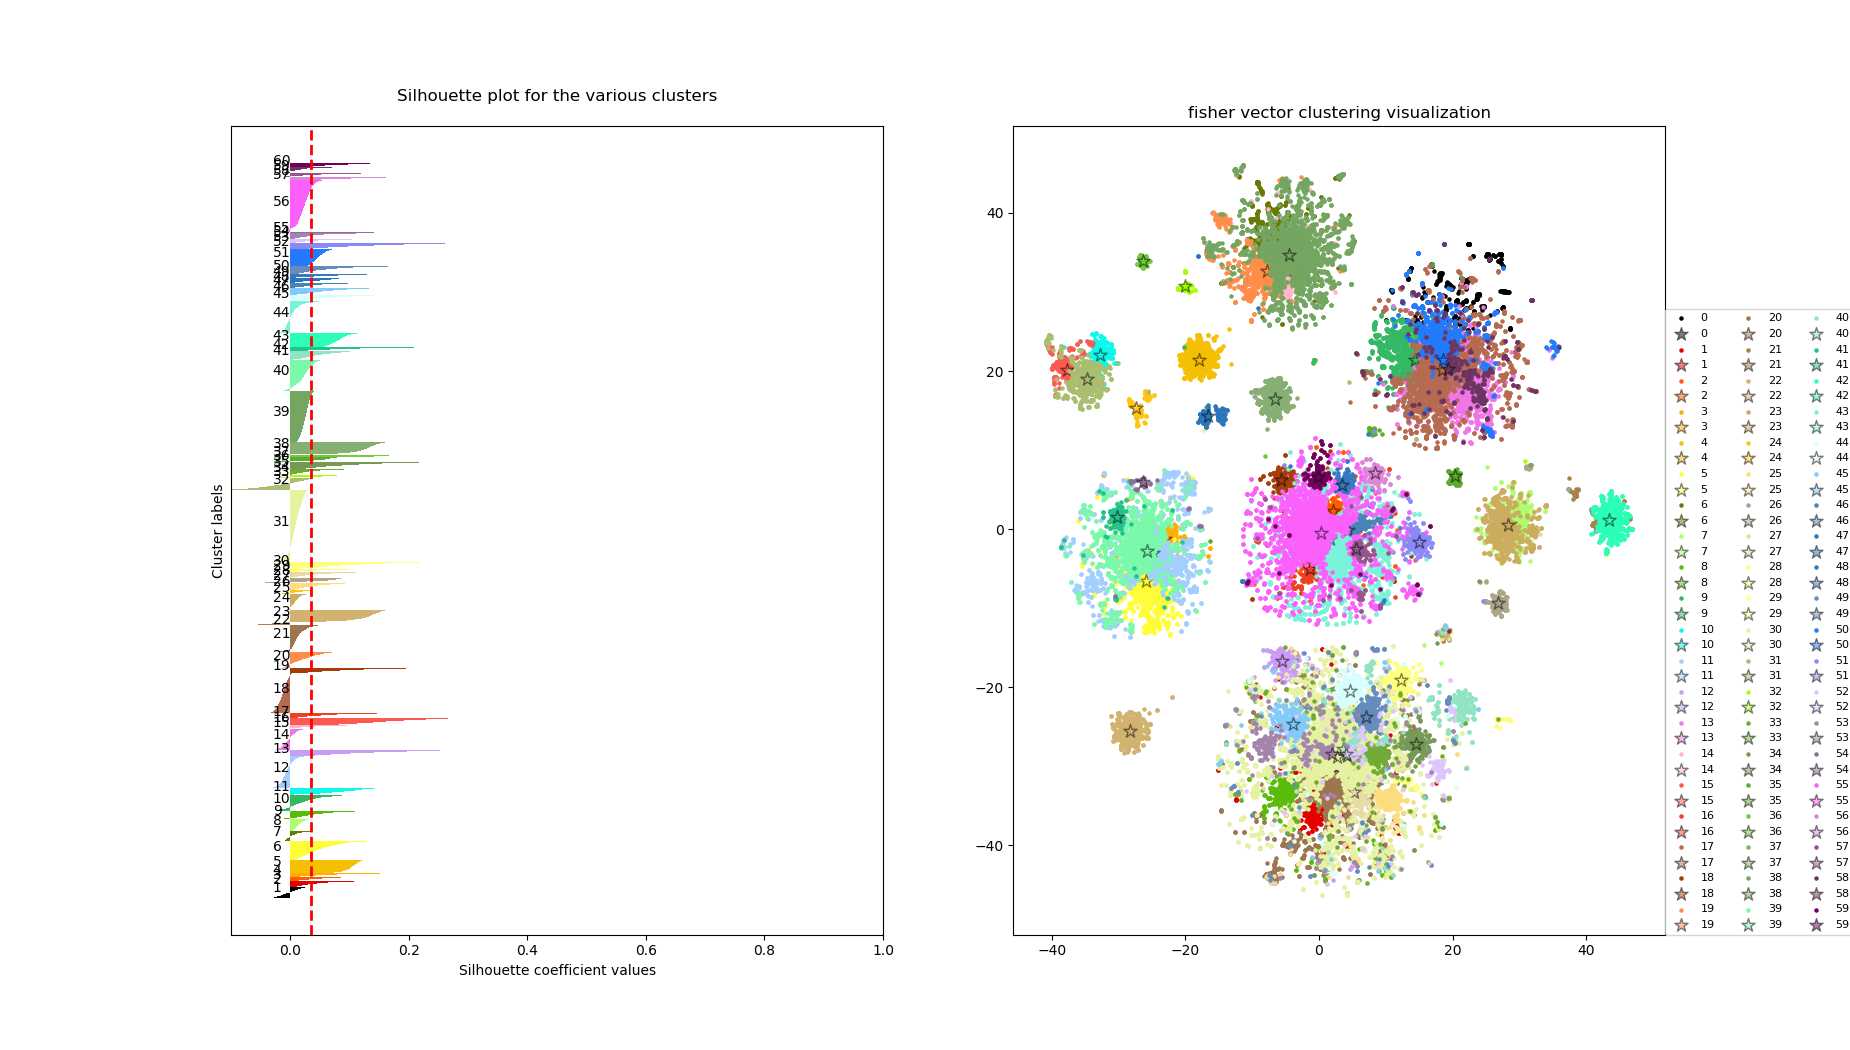
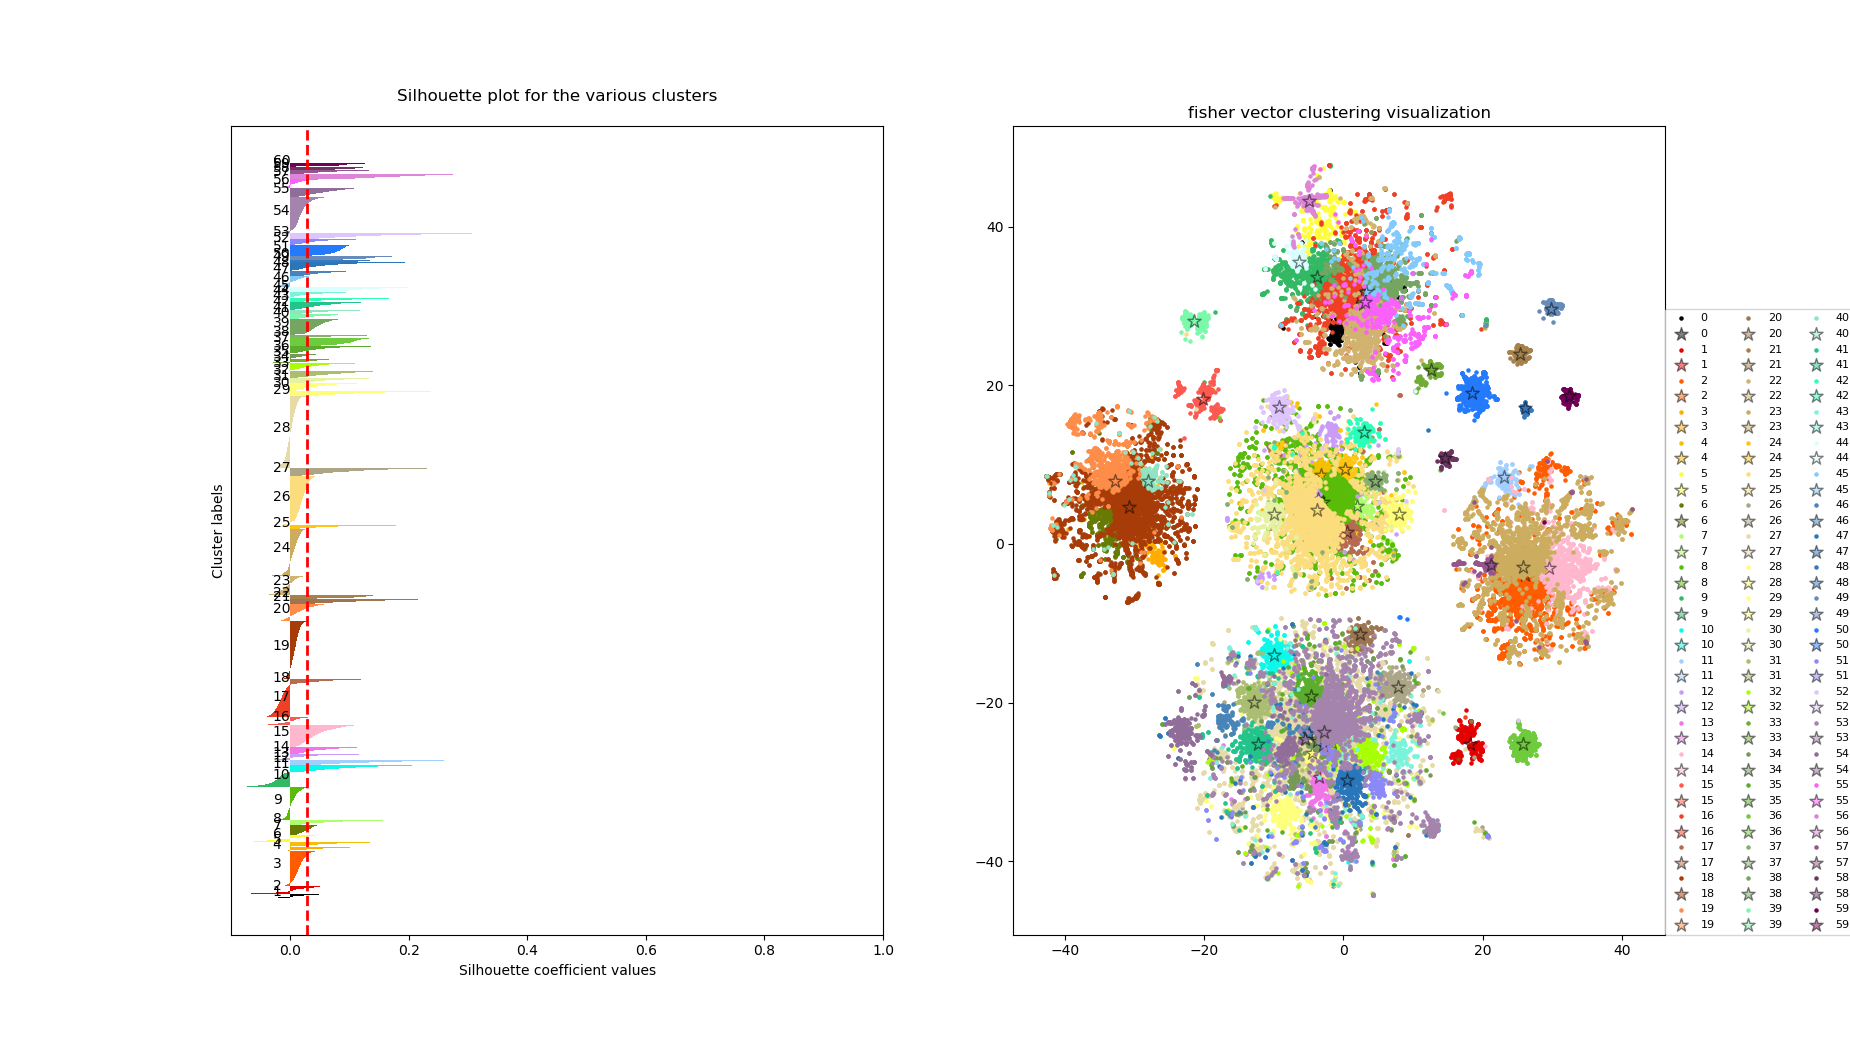
update

diff --git a/main.py b/main.py
@@ -1,78 +1,100 @@
-import numpy as np
-import os
-import cv2
-import glob
-import configure as cfg
+from keras.models import load_model, Model
 from Utils import save_result
 from Feature_Cluster.Feature_Extract import feature_extract
 from Feature_Cluster.Feature_Optimize import feature_optimize
 from Feature_Cluster.Feature_Reduce import feature_reduce
 from Feature_Cluster.Feature_Cluster_Visualize import feature_cluster, feature_visualize
-from Clusters_Classification.Train import train
-from Clusters_Classification.Test import test
-from numba import cuda
+# from Clusters_Classification.Train import train
+# from Clusters_Classification.Test import test
+# from numba import cuda
+from keras.backend import clear_session
+import configure as cfg
 import time
+import numpy as np
+# import os
+# os.environ["CUDA_VISIBLE_DEVICES"] = "1"
 
 
-def work_flow(img_root):
-    # material
-    print("Material Features Extraction...")
-    start = time.time()
-    material = feature_extract(img_root, 'material')
-    end = time.time()
-    etime = end - start
-    print(f"Extract time : {etime : .3f}\n")
 
-    start = time.time()
-    material_fv = feature_optimize(material, 'material')
-    end = time.time()
-    otime = end-start
-    print(f"Optimize time : {otime :.3f}\n")
+def work_flow(img_root,pattern):
+    features = None
+    if pattern[0]:
+        # material
+        material_model = load_model(cfg.Model_Root+'/material_model.h5')
+        material_model = Model(inputs=material_model.input, outputs=material_model.get_layer(
+        "global_average_pooling2d_1").output)
+        print("Material Features Extraction...")
+        start = time.time()
+        material = feature_extract(img_root,material_model, 'material')
+        end = time.time()
+        etime = end - start
+        print(f"Extract time : {etime : .3f}\n")
 
-    start = time.time()
-    material_pca = feature_reduce(material_fv, 'material')
-    end = time.time()
-    rtime = end - start
-    print(f"Reduce time : {rtime : .3f}\n")
+        start = time.time()
+        material_fv = feature_optimize(material, 'material')
+        end = time.time()
+        otime = end-start
+        print(f"Optimize time : {otime :.3f}\n")
 
-    # texture
-    print("Texture Features Extraction...")
-    start = time.time()
-    texture = feature_extract(img_root, 'texture')
-    end = time.time()
-    etime = end - start
-    print(f"Extract time : {etime : .3f}\n")
+        start = time.time()
+        material_pca = feature_reduce(material_fv, 'material')
+        end = time.time()
+        rtime = end - start
+        print(f"Reduce time : {rtime : .3f}\n")
+        del material, material_fv        
+        features = material_pca
+        clear_session()
 
-    start = time.time()
-    texture_fv = feature_optimize(texture, 'texture')
-    end = time.time()
-    otime = end-start
-    print(f"Optimize time : {otime :.3f}\n")
+    if pattern[1]:
+        # texture
+        texture_model = load_model(cfg.Model_Root+'/texture_model.h5')
+        texture_model = Model(inputs=texture_model.input, outputs=texture_model.get_layer(
+        "global_average_pooling2d_1").output)
 
-    start = time.time()
-    texture_pca = feature_reduce(texture_fv, 'texture')
-    end = time.time()
-    rtime = end - start
-    print(f"Reduce time : {rtime :.3f}\n")
+        print("Texture Features Extraction...")
+        start = time.time()
+        texture = feature_extract(img_root,texture_model,'texture')
+        end = time.time()
+        etime = end - start
+        print(f"Extract time : {etime : .3f}\n")
 
-    cuda.select_device(0)
-    cuda.close()
+        start = time.time()
+        texture_fv = feature_optimize(texture, 'texture')
+        end = time.time()
+        otime = end-start
+        print(f"Optimize time : {otime :.3f}\n")
 
-    # color
-    print("Color Features Extraction...")
-    start = time.time()
-    color = feature_extract(img_root, 'color')
-    color_pca = feature_reduce(color, 'color')
-    end = time.time()
-    col_time = end - start
-
-    print(f"Extract time : {col_time:.3f}")
-    del material, material_fv, texture, texture_fv
+        start = time.time()
+        texture_pca = feature_reduce(texture_fv, 'texture')
+        end = time.time()
+        rtime = end - start
+        print(f"Reduce time : {rtime :.3f}\n")
+        
+        if features is None:
+            features = texture_pca
+        else:    
+            features = np.concatenate((features, texture_pca), axis=1)
+        del texture, texture_fv
+        clear_session()
+        
+    if pattern[2]:
+        # color
+        print("Color Features Extraction...")
+        start = time.time()
+        color = feature_extract(img_root, 'color')
+        color_pca = feature_reduce(color, 'color')
+        end = time.time()
+        col_time = end - start
+        print(f"Extract time : {col_time:.3f}")
+        if features is None:
+            features = color_pca
+        else:    
+            features = np.concatenate((features, color_pca), axis=1)
 
     #######################################################################
 
-    # concatenate features
-    features = np.concatenate((material_pca, texture_pca, color_pca), axis=1)
+    # # concatenate features
+    # features = np.concatenate((material_pca, texture_pca, color_pca), axis=1)
 
     # K-Means Clustering
     print("Features Clustering Computing...")
@@ -88,24 +110,24 @@ def work_flow(img_root):
     # Visaulize
     print("Visaulize Clustering Result...")
     start = time.time()
-    feature_visualize(features, kmeans)
+    feature_visualize(features, kmeans,draw=False)
     end = time.time()
     vtime = end-start
     print(f"Visualize : {vtime :.3f}")
 
-    # Classification
-    start = time.time()
-    model = train(features, kmeans.labels_, epoch=25, draw=True)
-    end = time.time()
-    cls_train = end - start
-    print(f"Classification train time : {cls_train:.3f}")
+    # # Classification
+    # start = time.time()
+    # model = train(features, kmeans.labels_, epoch=25, draw=True)
+    # end = time.time()
+    # cls_train = end - start
+    # print(f"Classification train time : {cls_train:.3f}")
 
-    start = time.time()
-    test(features, kmeans.labels_, model)
-    end = time.time()
-    cls_test = end - start
-    print(f"Classifiction test time : {cls_test:.3f}")
+    # start = time.time()
+    # test(features, kmeans.labels_, model)
+    # end = time.time()
+    # cls_test = end - start
+    # print(f"Classifiction test time : {cls_test:.3f}")
 
 
 if __name__ == "__main__":
-    work_flow(cfg.IMG_Root)
+    work_flow(cfg.IMG_Root,cfg.Pattern)

diff --git a/Feature_Cluster/Feature_Extract.py b/Feature_Cluster/Feature_Extract.py
@@ -1,4 +1,3 @@
-from numba import cuda
 from keras.models import load_model, Model
 import numpy as np
 import os
@@ -7,20 +6,20 @@ import glob
 import configure as cfg
 import tensorflow as tf
 import keras.backend.tensorflow_backend as KTF
-# assign GPU
-os.environ["CUDA_VISIBLE_DEVICES"] = "0"
+# # assign GPU
+# os.environ["CUDA_VISIBLE_DEVICES"] = "0"
 
-config = tf.ConfigProto()
-config.gpu_options.allow_growth = True  # 不全部占滿GPU Memory, 按需分配
-sess = tf.Session(config=config)
+# config = tf.ConfigProto()
+# config.gpu_options.allow_growth = True  # 不全部占滿GPU Memory, 按需分配
+# sess = tf.Session(config=config)
 
-KTF.set_session(sess)
+# KTF.set_session(sess)
 
-# disable Debug Information
-os.environ['TF_CPP_MIN_LOG_LEVEL'] = '3'
+# # disable Debug Information
+# os.environ['TF_CPP_MIN_LOG_LEVEL'] = '3'
 
 
-def feature_extract(img_root, feature_type='color', save=True):
+def feature_extract(img_root, model=None,feature_type='color', save=True):
     """
     feature_type : material (2048) , texture(2048) ,color(512)
 
@@ -28,16 +27,8 @@ def feature_extract(img_root, feature_type='color', save=True):
     outputs : features
 
     """
-    if feature_type == 'material':
+    if feature_type == 'material' or feature_type == 'texture':
         State = 0
-        model = load_model(cfg.Model_Root+'/material_model.h5')
-        model = Model(inputs=model.input, outputs=model.get_layer(
-            "global_average_pooling2d_1").output)
-    elif feature_type == 'texture':
-        State = 0
-        model = load_model(cfg.Model_Root+'/texture_model.h5')
-        model = Model(inputs=model.input, outputs=model.get_layer(
-            "global_average_pooling2d_1").output)
     elif feature_type == 'color':
         State = 1
 
@@ -77,6 +68,38 @@ def feature_extract(img_root, feature_type='color', save=True):
         del model
 
     return all_feature
+
+
+def feature_extract_one(img_path, model=None, feature_type='color'):
+    """
+    feature_type : material (2048) , texture(2048) ,color(512)
+
+    inputs : (img_root_dir,feature_type)
+    outputs : features
+
+    """
+    if feature_type == 'material' or feature_type == 'texture':
+        State = 0
+    elif feature_type == 'color':
+        State = 1
+    if not State:
+        img = cv2.imread(img_path)
+        img = cv2.resize(img, (224, 224))
+        img = cv2.cvtColor(img, cv2.COLOR_BGR2RGB)
+        img = np.expand_dims(img, axis=0)/255
+        feature = model.predict(img)
+    else:
+        img = cv2.imread(img_path)
+        hist = cv2.calcHist([img], [0, 1, 2], None, [8, 8, 8], [
+                            0, 256, 0, 256, 0, 256])  # 512 dim
+        #print ("3D histogram shape: %s , with %d values" % (hist.shape, hist.flatten().shape[0]))
+        #print ("image shape :", img.shape)
+        feature = hist/(img.shape[0]*img.shape[1])
+        feature = feature.flatten()
+    if feature_type != 'color':
+        del model
+
+    return feature
 
 
 if __name__ == "__main__":

diff --git a/configure.py b/configure.py
@@ -1,5 +1,6 @@
-IMG_Root = 'Z:/Users/cymb103u/Desktop/Dataset/HIPSTER'
+IMG_Root = 'Z:/Users/cymb103u/Desktop/Dataset/input'
 #IMG_Root = 'Z:/Users/cymb103u/Desktop/Dataset/Img/female'
+
 
 Result_save = './Result'
 WorkSpace_Root = '.'
@@ -7,9 +8,13 @@ Model_Root = './Model'
 Feature_Root = './Feature'
 Cluster_result ='./Cluster_result'
 
+# Pattern  
+# material, texture, color
+Pattern = [False, False, True] 
+
 GMM_Kernel = 5
 PCA_Importance = 0.95
-Clusters = 5
+Clusters = 20
 
 Color = [
     'black', 'red', 'bright orange', 'orange yellow', 'golden', 'sunshine yellow', 'olive green', 'light lime', 'frog green', 'cool green', 'bright aqua',
@@ -30,3 +35,4 @@ LOG_INTERVAL = 100
 # IMG_Root = 'Z:/Users/cymb103u/Desktop/HIPSTER'
 # Model_Root = 'Z:/Users/cymb103u/Desktop/WorkSpace/Cloth-Release/test'
 # Feature_Root = 'Z:/Users/cymb103u/Desktop/WorkSpace/Cloth-Release/test'
+GPU_ID ='cuda:0'

diff --git a/Feature_Cluster/Feature_Optimize.py b/Feature_Cluster/Feature_Optimize.py
@@ -19,7 +19,7 @@ def feature_optimize(features, feature_type, save=True):
     print(f"All {feature_type} shape: {features.shape}\n")
 
     fv_gmm = FisherVectorGMM(n_kernels=cfg.GMM_Kernel).fit(
-        features, model_dump_path=cfg.Model_Root+'/'+feature_type + '_GMM', verbose=False)
+        features, model_dump_path=f"{cfg.Model_Root}/{cfg.Clusters}_{feature_type}_GMM", verbose=False)
 
     print(f"{feature_type} GMM training completed!!!\n")
 

diff --git a/Feature_Cluster/Feature_Reduce.py b/Feature_Cluster/Feature_Reduce.py
@@ -30,7 +30,7 @@ def feature_reduce(feature, feature_type, importance=cfg.PCA_Importance, save=Tr
     print(f"PCA transform time : {tot:.3f}")
     #print(f"finish......")
     if save:
-        joblib.dump(f_PCA, f"{cfg.Model_Root}/{feature_type}_PCA.pkl")
+        joblib.dump(f_PCA, f"{cfg.Model_Root}/{cfg.Clusters}_{feature_type}_PCA.pkl")
         np.save(f'{cfg.Feature_Root}/{feature_type}_pca.npy', all_pca_feature)
 
     return all_pca_feature
